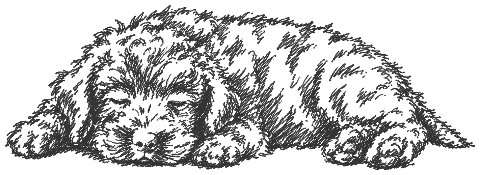
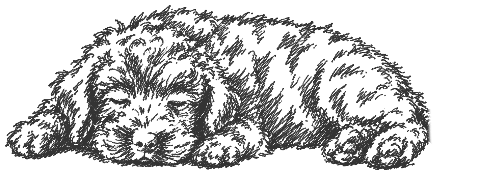
Give the footer dog the long, feathered tail from his awake sketch
The sleeping sketch's short wedge of a tail is replaced by the awake
sketch's: longer, slimmer and feathered, trailing down beside the hind
paw, with its dark root at the rump. It's transplanted onto the
sleeping drawing, and its root fades in over the fur, so the join stays
soft when it swings.

The drawing is now two images, the body without a tail
(dog-asleep.webp) and the tail on its own (dog-tail.webp, 2.5KB). The
SVG masks and blur filters that used to cut the tail out at runtime are
gone, and the wag pivots from the middle of the new root.

Changed region(s): [[0.875, 0.6286, 1.0, 0.8571]]

diff --git a/components/portfolio/dog/drawing.ts b/components/portfolio/dog/drawing.ts
@@ -1,17 +1,17 @@
 /**
- * The footer dog's drawing: a pencil sketch of the puppy asleep, lying flat
- * with his head on his paws (/images/site/dog-asleep.webp, its paper made
- * transparent and cropped to the drawing).
+ * The footer dog's drawing: the owner's pencil sketch of the puppy asleep,
+ * lying flat with his head on his paws, its paper made transparent.
  *
- * It's cut in two so the tail can wag: the tail on its own, and the rest of
- * him. The rest stops ~35px short of where the tail leaves the rump, so at
- * that join the two overlap rather than fade into each other — two fades
- * meeting half-cover the pencil and thin it into a pale line.
+ * It comes in two pieces so the tail can wag:
+ * - /images/site/dog-asleep.webp — all of him but the tail.
+ * - /images/site/dog-tail.webp — the tail on its own. It's the long, feathered
+ *   tail from the owner's sketch of him awake, set on the sleeping rump. Its
+ *   root fades in over the rump, so as it swings it ghosts softly over the fur
+ *   rather than laying a hard-edged copy on it.
  *
- * All coordinates are the drawing's own pixels.
+ * All coordinates are the sleeping drawing's own pixels.
  */
 
-export const DOG_IMAGE = "/images/site/dog-asleep.webp"
 export const DOG_WIDTH = 1422
 export const DOG_HEIGHT = 519
 export const DOG_VIEWBOX = `0 0 ${DOG_WIDTH} ${DOG_HEIGHT}`
@@ -19,50 +19,22 @@ export const DOG_VIEWBOX = `0 0 ${DOG_WIDTH} ${DOG_HEIGHT}`
 /** Where the z's float up from: just above his head (fractions of the box). */
 export const DOG_ANCHORS = { z: [0.34, 0.02] } as const
 
-// The tail: the feathered wedge trailing off to the right, from where it
-// leaves the rump — and that same shape stopped short of the rump, for what
-// the rest of him leaves out. Its outer edges sit out in the blank paper, clear
-// of the fur's tips, so none are left behind on the rump when it swings.
-const TAIL = "M1236 312 L1262 316 L1300 328 L1345 358 L1395 394 L1422 418 L1422 450 L1350 454 L1290 456 L1250 456 L1238 430 L1233 380 Z"
-const TAIL_CUT = "M1272 319 L1300 328 L1345 358 L1395 394 L1422 418 L1422 450 L1350 454 L1290 456 L1276 455 L1270 400 Z"
-
-// Where the overlap is, the tail fades in from nothing, so as it swings its
-// root ghosts softly over the rump rather than laying a hard-edged copy of the
-// fur on it. It's fully in by 1262, before the rest starts to give way at
-// ~1270, so at rest nothing is ever half there.
-const TAIL_FADE = [1236, 1262] as const
-
-const box = `x="-50" y="-50" width="${DOG_WIDTH + 100}" height="${DOG_HEIGHT + 100}"`
-const feather = (id: string) =>
-  `<filter id="${id}" x="-10%" y="-10%" width="120%" height="120%"><feGaussianBlur stdDeviation="3"/></filter>`
-const layer = (mask: string) => `<image href="${DOG_IMAGE}" width="${DOG_WIDTH}" height="${DOG_HEIGHT}" mask="url(#${mask})"/>`
-
 // Each piece is its own <svg>, stacked in the same box, and the wag moves the
 // tail's <svg> as a whole. Animating the tail inside one shared <svg> repainted
 // the whole drawing every frame, and a bitmap repainted that often is scaled
 // at a lower quality — all of him went soft for as long as the tail moved.
 
 /** Everything but the tail. Never animates, so it's drawn once and stays sharp. */
-export const DOG_BODY =
-  `<defs>${feather("dog-f-rest")}` +
-  `<mask id="dog-m-rest" maskUnits="userSpaceOnUse" ${box}><rect ${box} fill="#fff"/><path d="${TAIL_CUT}" fill="#000" filter="url(#dog-f-rest)"/></mask>` +
-  `</defs>` +
-  layer("dog-m-rest")
+export const DOG_BODY = `<image href="/images/site/dog-asleep.webp" width="${DOG_WIDTH}" height="${DOG_HEIGHT}"/>`
 
-/** The tail alone. It swings from where it leaves the rump — see dog.css. */
-export const DOG_TAIL =
-  `<defs>${feather("dog-f-tail")}` +
-  `<linearGradient id="dog-g-tail" gradientUnits="userSpaceOnUse" x1="${TAIL_FADE[0]}" y1="0" x2="${TAIL_FADE[1]}" y2="0">` +
-  `<stop offset="0" stop-color="#000"/><stop offset="1" stop-color="#fff"/></linearGradient>` +
-  `<mask id="dog-m-tail" maskUnits="userSpaceOnUse" ${box}><path d="${TAIL}" fill="url(#dog-g-tail)" filter="url(#dog-f-tail)"/></mask>` +
-  `</defs>` +
-  layer("dog-m-tail")
+/** The tail alone, in the patch of the drawing it covers (it runs a little past the right edge). */
+export const DOG_TAIL = `<image href="/images/site/dog-tail.webp" x="1150" y="250" width="330" height="269"/>`
 
 /** The tail's pivot, as a fraction of the box: the middle of its root, so the root barely moves. */
-export const DOG_TAIL_PIVOT = [1256 / DOG_WIDTH, 388 / DOG_HEIGHT] as const
+export const DOG_TAIL_PIVOT = [1252 / DOG_WIDTH, 395 / DOG_HEIGHT] as const
 
 /** Motion lines beyond the tip, shown only while it wags. */
 export const DOG_WAG_LINES =
   `<g fill="none" stroke="#333" stroke-linecap="round">` +
-  `<path d="M1430 398 C1444 414 1448 434 1442 456" stroke-width="4" stroke-opacity="0.75"/>` +
-  `<path d="M1456 384 C1474 406 1478 436 1468 466" stroke-width="3" stroke-opacity="0.5"/></g>`
+  `<path d="M1440 436 C1454 450 1458 470 1452 492" stroke-width="4" stroke-opacity="0.75"/>` +
+  `<path d="M1466 422 C1484 444 1488 474 1478 504" stroke-width="3" stroke-opacity="0.5"/></g>`

diff --git a/components/portfolio/dog/dog.tsx b/components/portfolio/dog/dog.tsx
@@ -19,8 +19,8 @@ import "./dog.css"
  * A tablet with a trackpad, or a laptop with a touchscreen, gets both, each
  * behaving as its own input would.
  *
- * The drawing is the owner's sketch — see drawing.ts for how the tail is cut
- * out to wag. Decorative throughout, so it is hidden from assistive tech.
+ * The drawing is the owner's sketch — see drawing.ts for how it's split so
+ * the tail can wag. Decorative throughout, so it is hidden from assistive tech.
  *
  * Rendered inside the footer's text column, which is `relative`; dog.css sits
  * him on the top edge of that column, where the closing sentence starts. The
